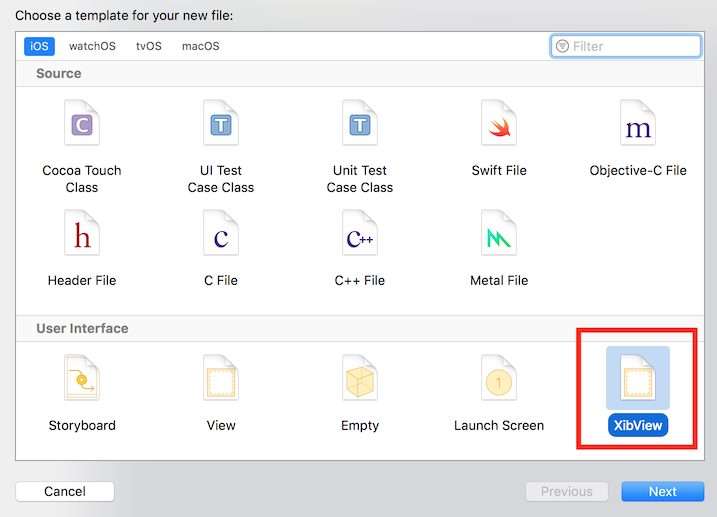
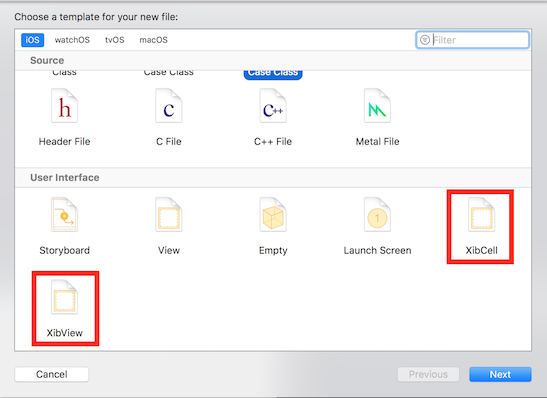
Read me udpate.

diff --git a/README.md b/README.md
@@ -1,9 +1,10 @@
 
 # XibView
-A .xib based UIView.
+A .xib based UIView, named `XibView`.
 
-A utility base class to develop custom views based on xib files.
-It allows you to use a xib based view inside another xib based view, promoting reusable, isolated and composable views.
+- A utility base class to develop custom views based on xib files. It allows you to use a xib based view inside another xib based view, promoting reusable, isolated and composable views.
+- An XCode template to facilitate creation of .xib based views are also added in both languages, swift and obj-c.
+- An XCode template to facilitate creation of .xib based cells.
 
 ## Instalation
 
@@ -23,7 +24,9 @@ In another view .xib or view controller .xib or .storyboard, add a UIView and ch
 
 ## Automation using XCode templates
 
-If you want to add the template, just download this repo, move to `./xcode-template` and run `./add-xibview-as-xcode-template`.
+### XibView
+
+If you want to add the template, just download this repo, move to `./xcode-template` and run `./add-xcode-templates.sh`.
 
 If you do so, you will see a XibView template when you create a new file to your project.
 
@@ -42,3 +45,9 @@ For objc:
 For swift:
 
 ![img4](assets/added-files-swift.png)
+
+### XibCell
+
+A `XibCell` template is also added.
+It creates a cell saving the time used to set `UITableViewCell` as subclass, removing the automated `TableViewCell` suffix and checking the `Also create Xib file` checkbox.
+So, you click on `XibCell`, enters the name of your cell (e.g.: `ItemCell`) and `ItemCell.swift` (or `ItemCell.h` and `ItemCell.m`) and `ItemCell.xib` are created.
